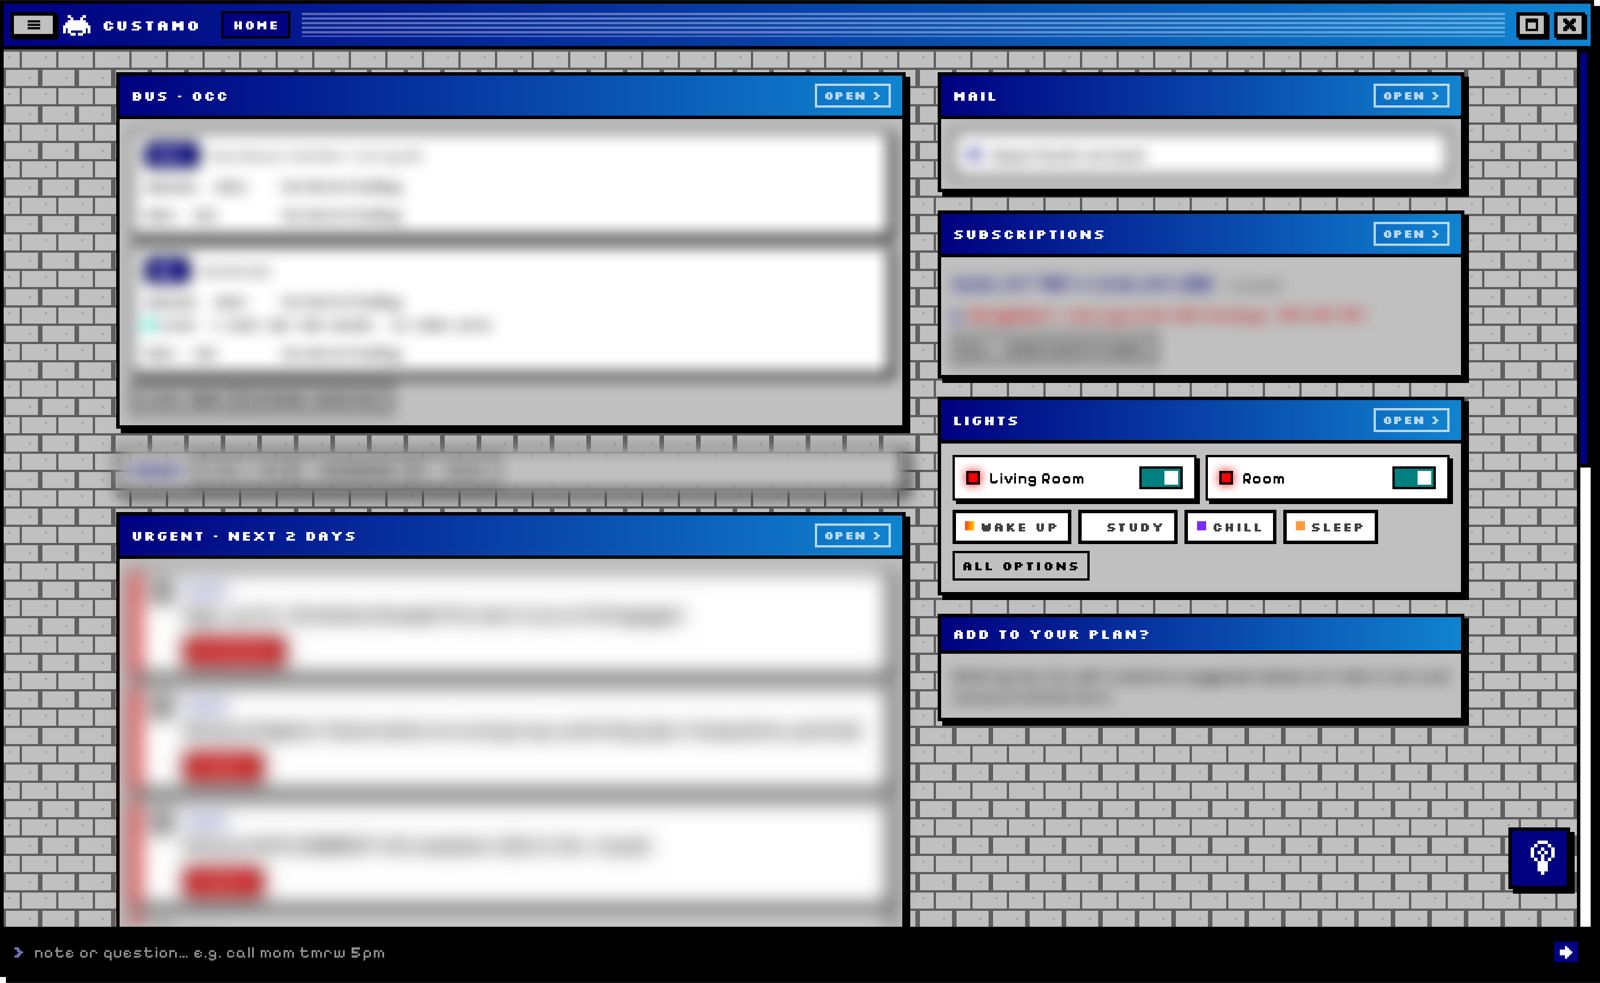
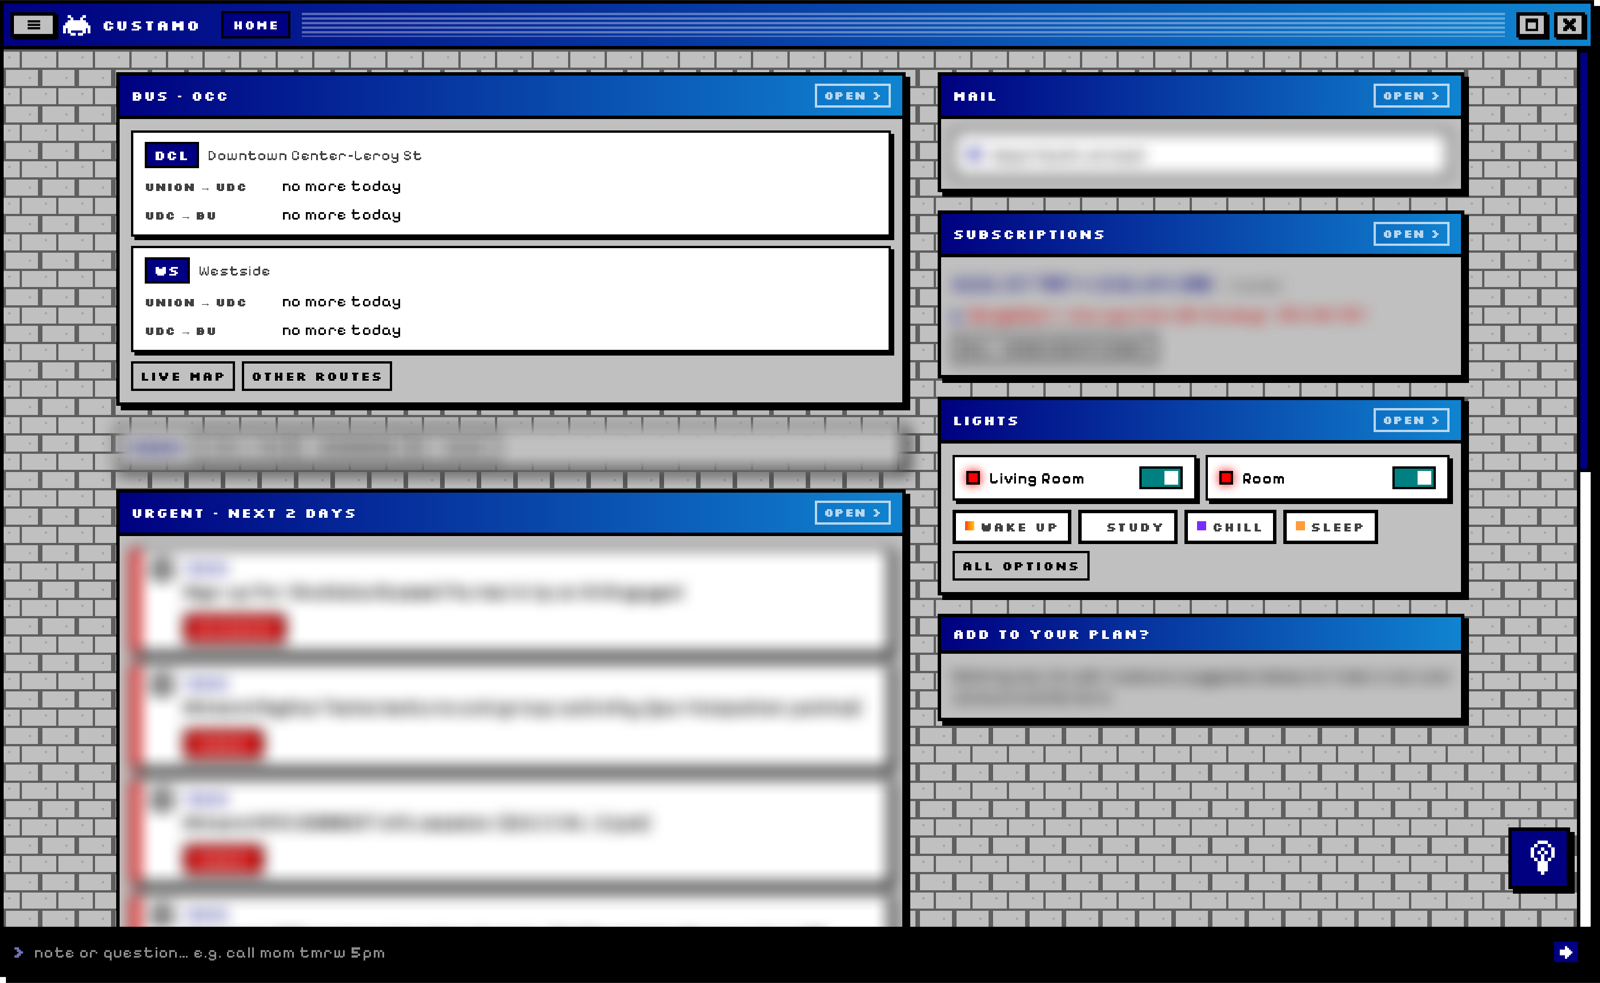
Add bus map, timetable, gym and calendar screenshots; less blur on home

Changed region(s): [[0.0625, 0.1221, 0.5938, 0.9461]]

diff --git a/README.md b/README.md
@@ -8,13 +8,21 @@ A personal macOS menu bar assistant with a retro pixel-art look. It lives behind
 
 ## Screenshots
 
-*Personal details (mail, tasks, deadlines, bus stops) are blurred.*
+*Personal details (mail, tasks, deadlines, calendar events) are blurred.*
 
 ![Home](screenshots/home.png)
+
+| Live bus map | Bus timetables |
+|---|---|
+| ![Live bus map](screenshots/bus-map.png) | ![Bus timetables](screenshots/bus-times.png) |
 
 | Kitchen | Lights |
 |---|---|
 | ![Kitchen](screenshots/kitchen.png) | ![Lights](screenshots/lights.png) |
+
+| Gym | Calendar |
+|---|---|
+| ![Gym](screenshots/gym.png) | ![Calendar](screenshots/calendar.png) |
 
 ## What it does
 
